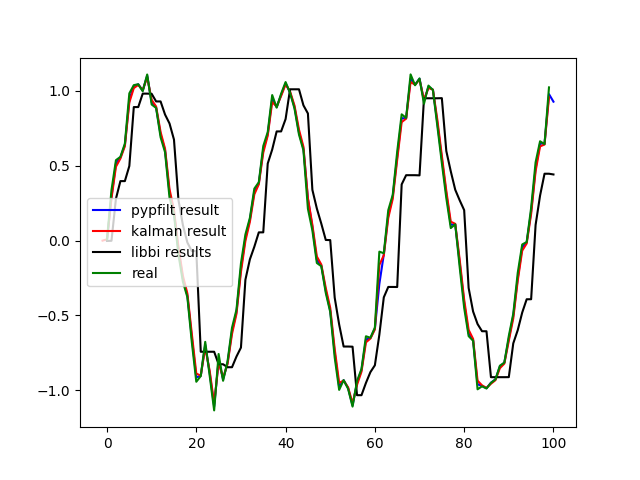
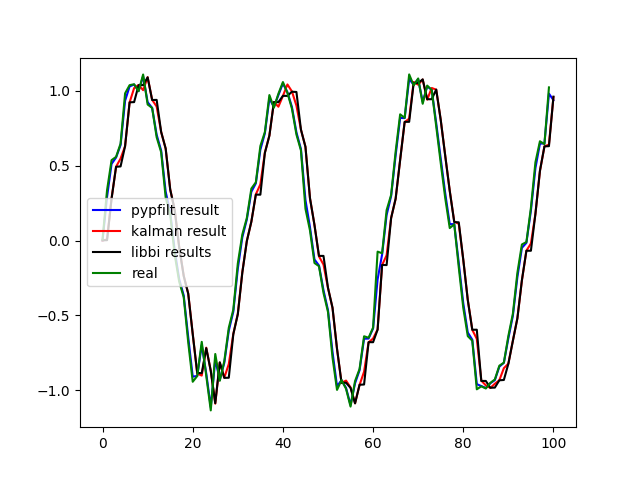
Added convertation from csv to netcdf and the vice vers
Test Plan: python kalmanfilter_pypfiltrandomwalk.py -d data -v variable

Reviewers: arsen

Reviewed By: arsen

Differential Revision: http://phabricator.hilearn.io/D1598

diff --git a/kalmanfilter_randomwalk.py b/kalmanfilter_randomwalk.py
@@ -6,10 +6,43 @@ import scipy
 import os
 import argparse
 import sys
+import pandas as pd
+import convert_csv_netcdf as cnv
 from netCDF4 import Dataset
 
 
-def kalmanfilter_randomwalk(obs, sigma_w=10, sigma_r=10):
+def generate_pypfilt_obs_data(data: list,
+                              source='Any',
+                              unit='states',
+                              period=1):
+    obs = []
+    for i, ret in enumerate(data):
+        obs.append(
+            {'date': float(i),
+             'value': ret,
+             'unit': unit,
+             'period': period,
+             'source': source})
+    return obs
+
+
+def extract_timeseries_from_csv(csv_path, variable):
+    data_frame = pd.read_csv(csv_path)
+    var = data_frame[variable]
+    return np.array(var)
+
+
+def parse_args(*argument_array):
+    parser = argparse.ArgumentParser()
+    parser.add_argument('-d', '--data', help="data file path")
+    parser.add_argument('-v', '--variable',
+                        help='variable on which particle filter will be done',
+                        required=True)
+    args = parser.parse_args(*argument_array)
+    return args
+
+
+def kalmanfilter_randomwalk(obs, sigma_w=10., sigma_r=10.):
     kalman = KalmanFilter(obs.shape[1], 1)
     kalman.x = np.zeros((kalman.dim_x, 1))
     kalman.P = np.eye(kalman.dim_x) * 1 ** 2
@@ -68,7 +101,7 @@ def log_llhd(params, obs_list, curr, prev_dict, weights):
     return log_llhd
 
 
-def make_randomwalk_params(px_count, ret=0.25, sigma_r=1, sigma_w=10):
+def make_randomwalk_params(px_count, ret=0.25, sigma_r=1., sigma_w=10.):
     model = RandomWalk()
     time_scale = pypfilt.Scalar()
     params = pypfilt.default_params(model, time_scale, px_count=px_count)
@@ -83,11 +116,11 @@ def make_randomwalk_params(px_count, ret=0.25, sigma_r=1, sigma_w=10):
 
 
 def bootstrap_forecast_randomwalk(obs,
-                                  sigma_w=10,
-                                  sigma_r=1,
+                                  sigma_w=10.,
+                                  sigma_r=1.,
                                   t0=0.0,
                                   t1=100.0):
-    fs_times = list(range(0, len(obs)))
+    fs_times = list(range(1, len(obs)))
     fs_times = [float(time) for time in fs_times]
     params = make_randomwalk_params(px_count=4000,
                                     sigma_r=sigma_r,
@@ -104,14 +137,6 @@ def bootstrap_forecast_randomwalk(obs,
                           summary,
                           save_when=fs_times,
                           save_to='output')
-    #     data = h5py.File('output', 'r')
-    #     cints = data['data']['model_cints']
-    #     convs = pypfilt.summary.default_converters(pypfilt.Scalar())
-    #     cints = pypfilt.summary.convert_cols(cints, convs)
-    #     state_cints = cints[cints['name'] == b'states']
-    #     fs_mask = state_cints['fs_date'] < max(state_cints['date'])
-    #     state_cints = state_cints[fs_mask]
-    #     data.close()
 
     return results
 
@@ -119,32 +144,32 @@ def bootstrap_forecast_randomwalk(obs,
 if __name__ == "__main__":
 
     parser = argparse.ArgumentParser()
-    parser.add_argument("-d", "--data", help="data file path",
-                        default='libbi/data/rets.nc')
-    args = parser.parse_args()
+    args = parse_args()
 
+    # getting data path and variable for particle filtering
     data_path = os.path.abspath(args.data)
+    variable = args.variable
 
-    rootgrp = Dataset(data_path, 'r')
-    logreturns = rootgrp.variables['rets'][:]
-    logrs = logreturns.reshape(logreturns.shape[0], 1)
+    # extracting data
+    data = extract_timeseries_from_csv(data_path, variable)
 
-    obs = []
-    for i, ret in enumerate(logreturns):
-        obs.append(
-            {'date': float(i),
-             'value': ret,
-             'unit': 'states',
-             'period': 1,
-             'source': 'Some system'})
+    # generating data
+    cnv.convert_csv_to_netcdf(csv_path=data_path,
+                              netcdf_path='input.nc',
+                              var=variable)
+    libbi_data_path = os.path.abspath('input.nc')
+    pypfilt_data = generate_pypfilt_obs_data(list(data))
+    kalman_data = data.reshape(data.shape[0], 1)
 
-    state_cints = bootstrap_forecast_randomwalk(obs,
+    # implementing particle filtering
+    state_cints = bootstrap_forecast_randomwalk(pypfilt_data,
                                                 sigma_w=0.2,
                                                 sigma_r=0.1,
-                                                t1=float(logreturns.shape[0]))
-    states = kalmanfilter_randomwalk(logrs, sigma_w=0.2, sigma_r=0.1)
+                                                t1=float(data.shape[0]))
+    states = kalmanfilter_randomwalk(kalman_data, sigma_w=0.2, sigma_r=0.1)
 
-    x = os.system('cd ./libbi && ./filter.sh {0} && cd ../'.format(data_path))
+    # running libbi
+    x = os.system('cd ./libbi && ./filter.sh {0} {1} && cd ../'.format(libbi_data_path, data.shape[0])) # noqa
     if x:
         sys.exit(x)
 
@@ -156,11 +181,11 @@ if __name__ == "__main__":
         real_states.append(state[3])
 
     plt.plot(real_states, color='blue', label='pypfilt result')
-    plt.plot(range(-1, 100), states, color='red', label='kalman result')
+    plt.plot(states, color='red', label='kalman result')
     plt.plot(libbi_logreturns.mean(axis=1),
              color='black',
              label='libbi results')
-    plt.plot(logreturns, color='green', label='real')
+    plt.plot(data, color='green', label='real')
     plt.legend()
     plt.savefig('result.png')
     plt.show()

diff --git a/convert_csv_netcdf.py b/convert_csv_netcdf.py
@@ -1,0 +1,41 @@
+import argparse
+import pandas
+import os
+import numpy as np
+import xarray
+
+
+def parse_args(*argument_array):
+    parser = argparse.ArgumentParser()
+    parser.add_argument('-i', '--input', required=True)
+    parser.add_argument('-v', '--variable', required=True)
+    parser.add_argument('-o', '--output', required=True)
+    args = parser.parse_args(*argument_array)
+    return args
+
+
+def convert_csv_to_netcdf(csv_path: str, netcdf_path: str, var='rets'):
+    csv_data = pandas.read_csv(csv_path)[[var]]
+    data = np.array(csv_data)
+    nc_data = xarray.Dataset({'time': ('nr',
+                                       [float(i) for i in range(0, data.shape[0])]), # noqa
+                              var: (('nr', 'np'), data)})
+    nc_data.to_netcdf(netcdf_path)
+
+
+def convert_netcdf_to_csv(csv_path: str, netcdf_path: str, var='rets'):
+    nc_data = xarray.open_dataset(netcdf_path).to_dataframe()
+    nc_data[[var]].to_csv(csv_path)
+
+
+if __name__ == '__main__':
+    args = parse_args()
+    filename, file_extension = os.path.splitext(args.input)
+    if file_extension == '.nc':
+        convert_netcdf_to_csv(csv_path=args.output,
+                              netcdf_path=args.input,
+                              var=args.variable)
+    else:
+        convert_csv_to_netcdf(csv_path=args.input,
+                              netcdf_path=args.output,
+                              var=args.variable)
